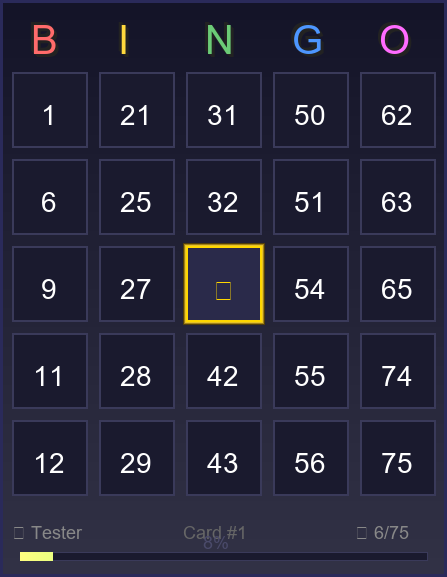
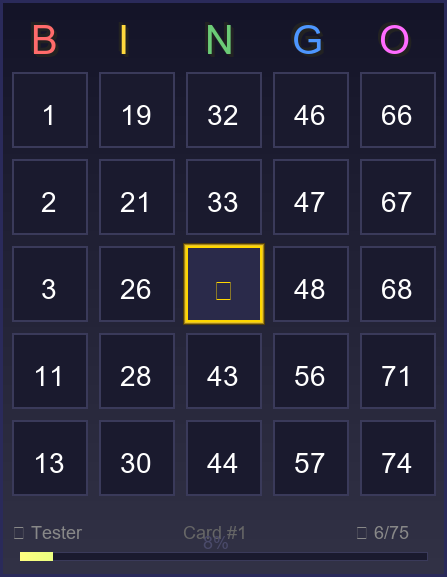
freebuff bot fix fff

diff --git a/TECHNICAL_DOCS2.md b/TECHNICAL_DOCS2.md
@@ -906,8 +906,9 @@ ADMIN_IDS=1 SUPER_ADMIN_IDS=2 ROOM_BETS=30,50,100 venv\Scripts\python.exe smoke_
 # or, for the API-only suite:  venv\Scripts\python.exe api_smoke.py
 ```
 The suite plays full rounds offline (registration, card sales, gradual bot fill,
-bot wins, **Impossible: a human can never win**, forced bot win at the 75th
-ball, exact 80% payout, false-BINGO elimination, admin/super-admin controls)
+bot wins, **Impossible: a human can never win**, forced bot win before the 75th
+ball (`BOT_GUARANTEED_WIN_AFTER`), exact 80% payout, false-BINGO elimination,
+admin/super-admin controls)
 and renders sample cards.
 
 ---
